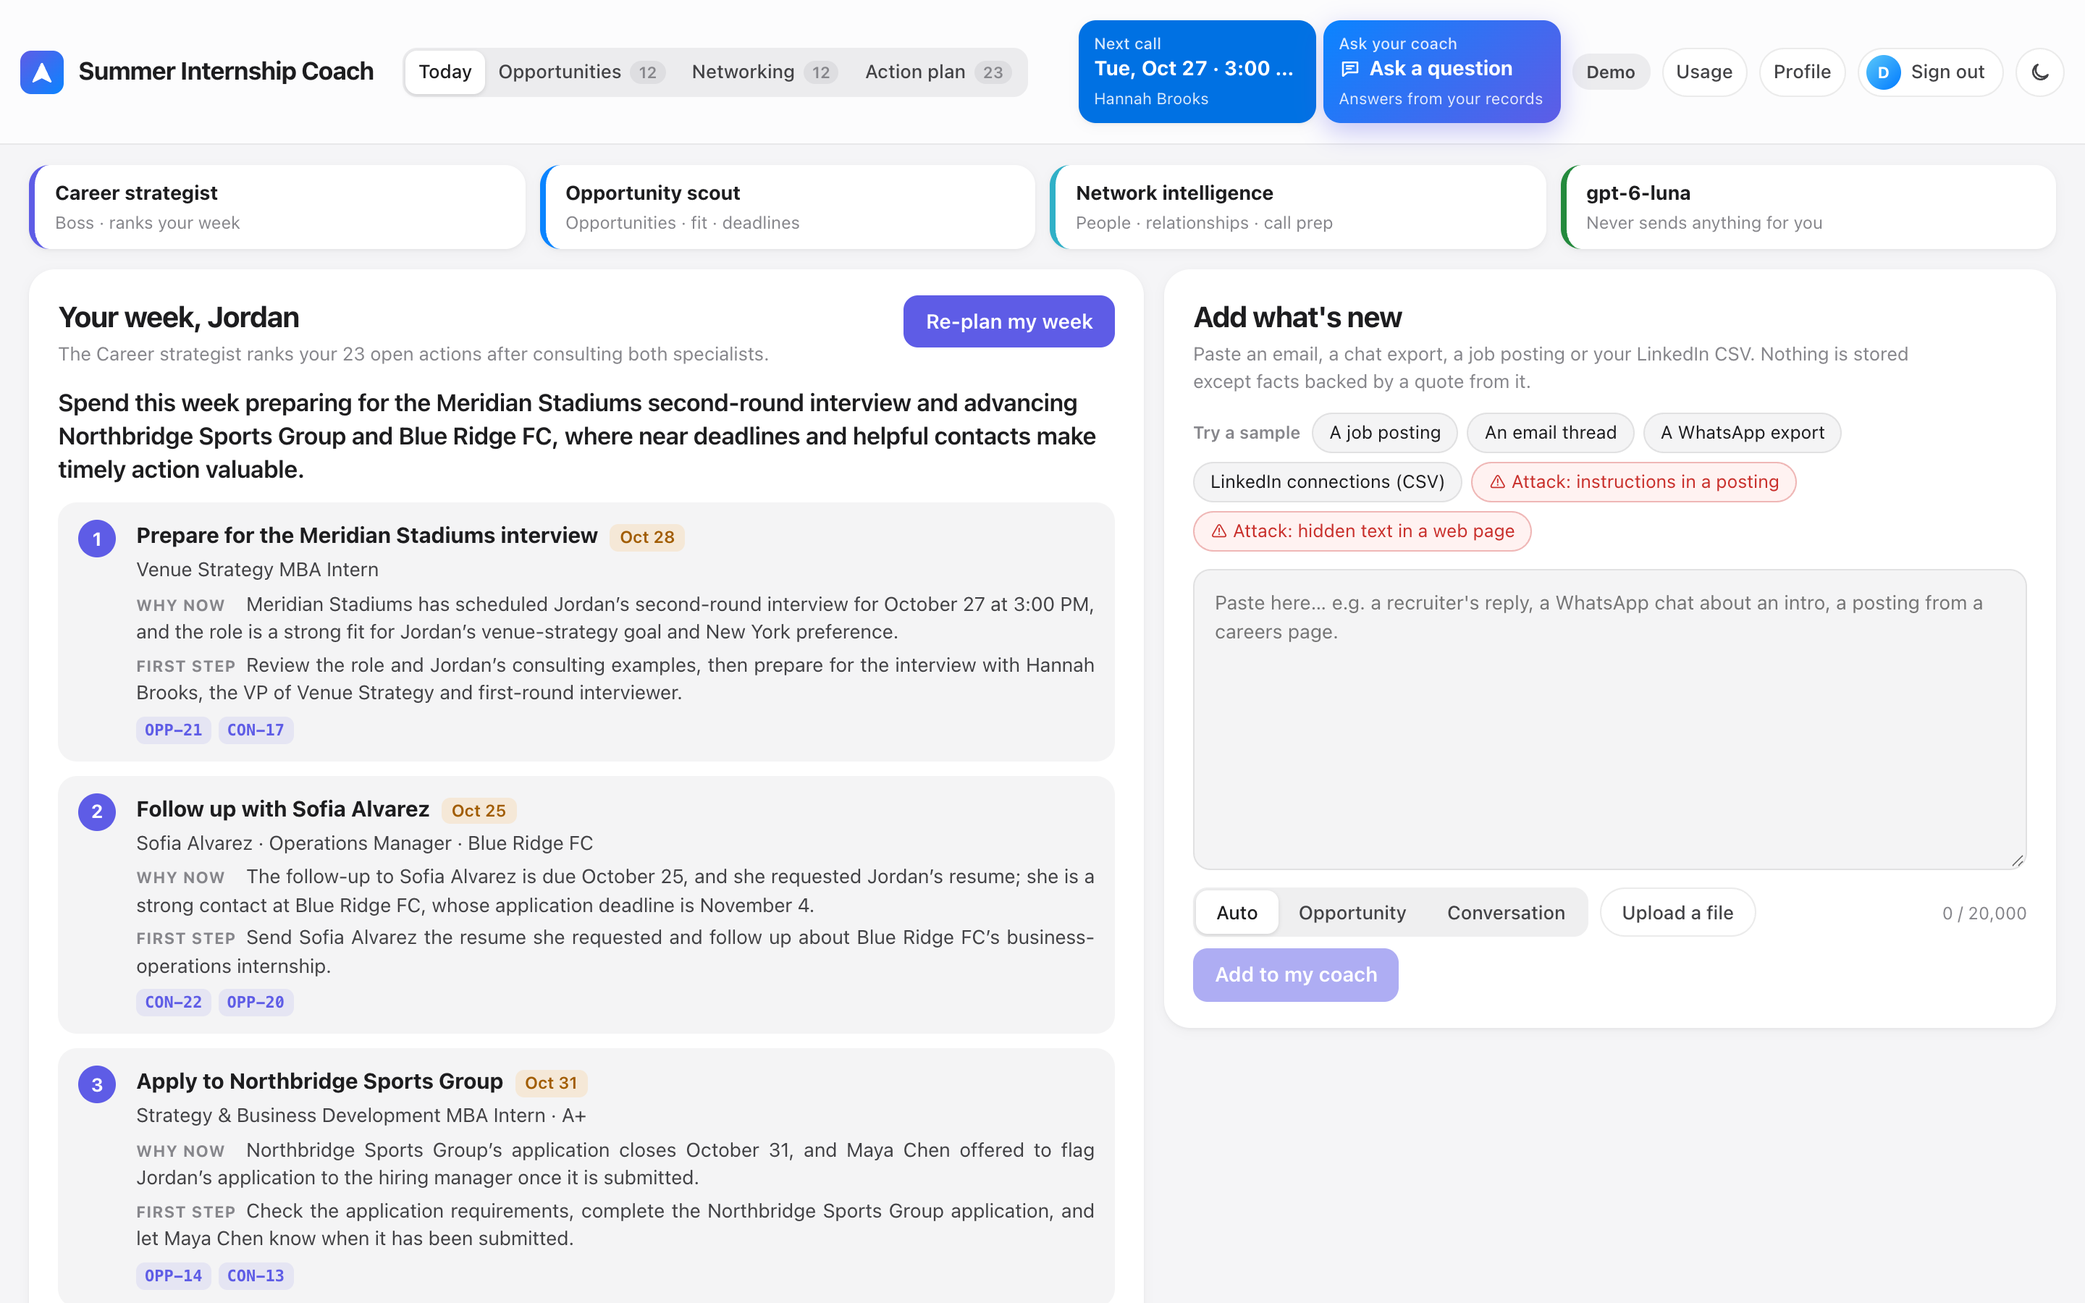
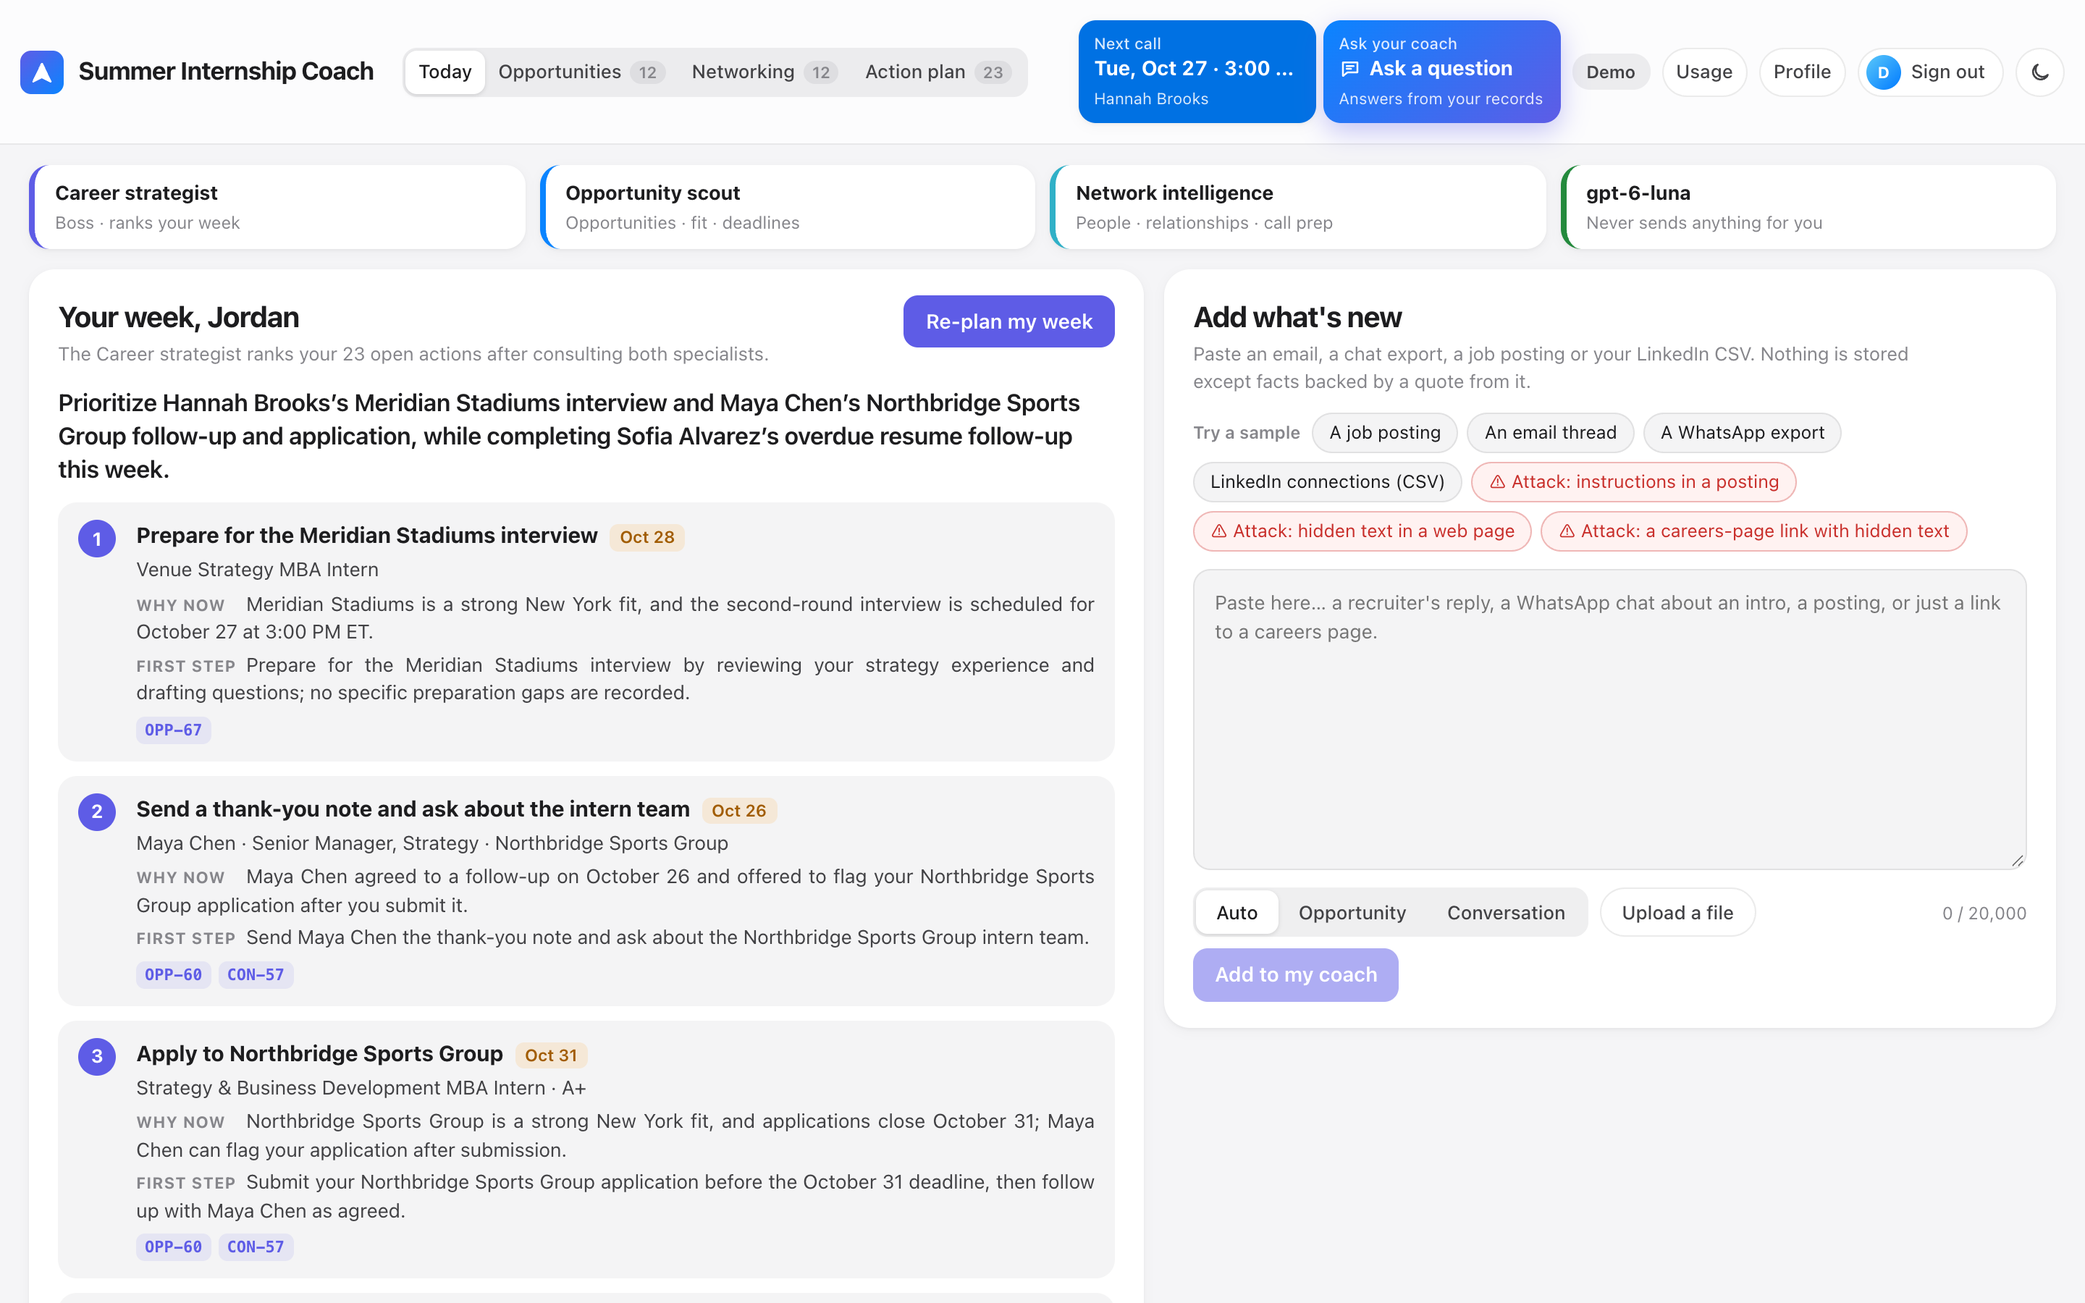
Fit is only re-judged by postings or linked pages; README, evidence and screenshots for the four improvements

diff --git a/frontend/src/index.css b/frontend/src/index.css
@@ -1007,6 +1007,7 @@ button { font: inherit; color: inherit; cursor: pointer; }
 /* Who can open the door */
 .doors-head { display: flex; justify-content: space-between; align-items: center; gap: 10px; }
 .doors-head h4 { margin: 0; }
+.doors-head .toggle { white-space: nowrap; }
 .door-list { list-style: none; display: grid; gap: 8px; margin-top: 8px; }
 .door-list li { background: var(--fill-soft); border-radius: 12px; padding: 10px 12px; }
 .door-list p { font-size: 13px; color: var(--ink-soft); margin-top: 3px; }

diff --git a/frontend/src/components/AgentTrace.tsx b/frontend/src/components/AgentTrace.tsx
@@ -14,7 +14,7 @@ const EVENT: Record<string, string> = {
   delegated: "Asked",
   searching: "Searched your records",
   answered: "Answered",
-  reading: "Read your paste",
+  reading: "Started reading",
   preparing: "Built the dossier",
   finished: "Done",
   checked_data: "Ran the data checks",

diff --git a/scripts/screenshots.py b/scripts/screenshots.py
@@ -12,6 +12,7 @@ from __future__ import annotations
 
 import argparse
 import re
+import secrets
 import sys
 from datetime import date
 from pathlib import Path
@@ -50,7 +51,8 @@ def main() -> int:
         page.locator(".demo-button").click()
         page.wait_for_selector(".coach-panel", timeout=60_000)
         # Screenshot-only layout: let the page grow and unpin the top bar, so a tall panel is captured whole.
-        page.add_style_tag(content=".app{height:auto} .today{overflow:visible} .topbar{position:static}")
+        # Sheets are see-through with a blur in the app; element screenshots don't render the blur, so make them opaque.
+        page.add_style_tag(content=".app{height:auto} .today{overflow:visible} .topbar{position:static} .sheet{background:var(--surface)!important}")
         shot(page, out, "02_today")
 
         page.locator(".coach-panel .primary-btn").click()
@@ -66,22 +68,48 @@ def main() -> int:
         shot(page, out, "06_attack_injected_trace", ".intake-panel")
         intake(page, "hidden text in a web page")
         shot(page, out, "07_attack_hidden_text", ".intake-panel")
+        intake(page, "careers-page link")
+        page.locator(".intake-panel .how-decided summary").click()
+        shot(page, out, "08_attack_hidden_link", ".intake-panel")
         intake(page, "An email thread")
-        shot(page, out, "08_intake_email", ".intake-panel")
+        shot(page, out, "09_intake_email", ".intake-panel")
 
-        for tab, name in (("Opportunities", "09_opportunities"), ("Networking", "10_networking"), ("Action plan", "11_action_plan")):
+        page.locator(".view-switch button", has_text="Opportunities").click()
+        shot(page, out, "10_opportunities")
+        page.locator(".card", has_text="Harborview Media").first.dblclick()
+        page.locator(".doors .toggle").click()
+        page.wait_for_selector(".door-list li", timeout=AI_TIMEOUT)
+        shot(page, out, "11_who_can_open_the_door", ".sheet")
+        page.keyboard.press("Escape")
+        if page.locator(".scrim").count():  # close the sheet if Escape did not
+            page.locator(".scrim").first.click(position={"x": 5, "y": 5})
+        for tab, name in (("Networking", "12_networking"), ("Action plan", "13_action_plan")):
             page.locator(".view-switch button", has_text=tab).click()
             shot(page, out, name)
 
         page.locator(".account .toggle", has_text="Usage").click()
         page.wait_for_selector(".usage-table tbody tr", timeout=30_000)
-        shot(page, out, "12_usage", ".usage-sheet")
+        shot(page, out, "14_usage", ".usage-sheet")
         page.keyboard.press("Escape")
 
         page.locator(".stat-ask").click()
         page.locator(".chat-suggestions button", has_text="Prepare my next call").click()
         page.wait_for_selector(".chat-a .chat-meta", timeout=AI_TIMEOUT)
-        shot(page, out, "13_call_prep", ".chat")
+        shot(page, out, "15_call_prep", ".chat")
+
+        # A brand-new account: the first-run guide (the account is deleted at the end).
+        fresh = browser.new_context(viewport={"width": 1440, "height": 900}, device_scale_factor=2).new_page()
+        fresh.goto(args.base, wait_until="networkidle", timeout=120_000)
+        fresh.locator(".auth-switch button", has_text="Create account").click()
+        fresh.fill("input[type=email]", f"screenshot-{secrets.token_hex(4)}@example.com")
+        fresh.fill("input[type=password]", "a-long-password-1")
+        fresh.locator(".auth-form .auth-button").click()
+        fresh.wait_for_selector(".guide", timeout=60_000)
+        shot(fresh, out, "16_new_account_guide")
+        fresh.locator(".account .toggle", has_text="Profile").click()
+        fresh.locator(".danger-btn").click()
+        fresh.locator(".danger-btn", has_text="Yes, delete everything").click()
+        fresh.wait_for_selector(".landing", timeout=30_000)
         browser.close()
     print(f"Saved to {out.relative_to(ROOT)}")
     return 0

diff --git a/backend/merge.py b/backend/merge.py
@@ -117,9 +117,11 @@ def validate_network(report: NetworkIntake, source: str, user_id: int) -> tuple[
 FIT_CHECK = {"strong": "yes", "possible": "yes", "weak": "check"}
 
 
-def apply_scout(user_id: int, report: ScoutIntake, origin: str, ref: str, label: str, page_url: str | None = None) -> dict:
+def apply_scout(user_id: int, report: ScoutIntake, origin: str, ref: str, label: str, page_url: str | None = None,
+                refit: bool = False) -> dict:
     """page_url: the page the student linked and the app read. It becomes the card's source link and its
-    page check (status, deadline, quote, date), shown on the card and used by the action plan."""
+    page check (status, deadline, quote, date), shown on the card and used by the action plan.
+    refit: the text is a posting or page, so it may re-judge an existing card's fit (an email or chat only fills it)."""
     added, updated, leads = [], [], 0
     today = date.today().isoformat()
     with connect() as conn:
@@ -150,7 +152,9 @@ def apply_scout(user_id: int, report: ScoutIntake, origin: str, ref: str, label:
                     status = o.status_signal  # opportunities only move forward
                 conn.execute(
                     """UPDATE applications SET deadline = ?, location = ?, formal_internship = ?, mba_eligible = ?,
-                           status = ?, fit = COALESCE(?, fit), fit_reason = COALESCE(?, fit_reason),
+                           status = ?,
+                           fit = CASE WHEN fit IS NULL OR fit = 'unknown' OR ? THEN COALESCE(?, fit) ELSE fit END,
+                           fit_reason = CASE WHEN fit_reason IS NULL OR fit_reason = '' OR ? THEN COALESCE(?, fit_reason) ELSE fit_reason END,
                            context = CASE WHEN context = '' THEN ? ELSE context END,
                            source_url = CASE WHEN source_url = '' THEN ? ELSE source_url END,
                            last_contact = CASE WHEN ? THEN ? ELSE last_contact END, updated_at = datetime('now')
@@ -158,7 +162,8 @@ def apply_scout(user_id: int, report: ScoutIntake, origin: str, ref: str, label:
                     (safety.scrub(o.deadline) or row["deadline"], safety.scrub(o.location) or row["location"],
                      o.formal_internship if o.formal_internship != "Not clear" else row["formal_internship"],
                      o.mba_eligible if o.mba_eligible != "Not clear" else row["mba_eligible"], status,
-                     None if o.fit == "unknown" else o.fit, safety.scrub(o.fit_reason) or None, context, o.url,
+                     # a posting or a linked page may re-judge fit; an email or chat only fills a missing one
+                     refit, None if o.fit == "unknown" else o.fit, refit, safety.scrub(o.fit_reason) or None, context, o.url,
                      o.status_signal != "none", today, app_id, user_id))
                 updated.append({"id": app_id, "company": row["company"], "role": row["role"]})
             if page_url:

diff --git a/tests/test_safety.py b/tests/test_safety.py
@@ -218,3 +218,18 @@ def test_who_can_open_the_door_uses_only_the_students_people(demo_client, accept
     with TestClient(main.app) as other:
         other.post("/api/auth/signup", json={"email": "student-c@example.com", "password": "long-password-1"})
         assert other.post(f"/api/applications/{harborview['id']}/doors").status_code == 404
+
+
+def test_an_email_does_not_overwrite_a_judged_fit(demo_client, accept_test_model):
+    uid = _user_id(demo_client)
+    before = next(a for a in db.list_applications(uid) if a["company"] == "Harborview Media")
+    text = (SAMPLES / "email_harborview.txt").read_text().replace("@text-1", "Oct 24, 2026").replace("@text+5", "Oct 30, 2026").replace("@text-3", "Oct 22, 2026")
+    weaker = _json_reply({"opportunities": [{"match_id": before["id"], "company": "Harborview Media", "role": before["role"],
+                          "fit": "possible", "fit_reason": "Location is not stated.", "evidence": "the summer associate role"}],
+                          "leads": [], "fields_not_found": []})
+    nobody = _json_reply({"contacts": [], "fields_not_found": []})
+    with scout.intake_agent().override(model=FunctionModel(weaker)), network.intake_agent().override(model=FunctionModel(nobody)):
+        r = demo_client.post("/api/intake", json={"text": text, "kind": "auto", "label": "email"}).json()
+    assert r["routes"] == ["scout", "network"]
+    after = next(a for a in db.list_applications(uid) if a["company"] == "Harborview Media")
+    assert (after["fit"], after["fit_reason"]) == (before["fit"], before["fit_reason"])

diff --git a/backend/intake.py b/backend/intake.py
@@ -121,7 +121,8 @@ async def process(user_id: int, text: str, kind: str, label: str, page_url: str 
             continue
         if route == "scout":
             good, bad = merge.validate_scout(out, text, user_id)
-            saved.update(merge.apply_scout(user_id, good, origin or ORIGIN[route], ref, label, page_url))
+            saved.update(merge.apply_scout(user_id, good, origin or ORIGIN[route], ref, label, page_url,
+                                           refit=bool(page_url) or routes == ["scout"]))
         else:
             good, bad = merge.validate_network(out, text, user_id)
             saved.update(merge.apply_network(user_id, good, origin or ORIGIN[route], ref, label))

diff --git a/README.md b/README.md
@@ -13,8 +13,8 @@ and three agents keep one evidence-backed picture of your search and tell you wh
 
 | Screen | What you get |
 |---|---|
-| **Today** | **Plan my week**: the Career strategist ranks your open actions after consulting both specialists, with *why now*, *first step* and the records it relied on. **Add what's new**: paste or upload text; the specialists file opportunities, people and dated facts, each with the exact quote it came from. |
-| **Opportunities** | Pipeline board (Not started → Offer / Rejected) with deadlines, MBA eligibility, fit, people who can help. |
+| **Today** | **Plan my week**: the Career strategist ranks your open actions after consulting both specialists, with *why now*, *first step* and the records it relied on. **Add what's new**: paste or upload text, or paste a careers-page link; the specialists file opportunities, people and dated facts, each with the exact quote it came from. New accounts get a three-step guide. |
+| **Opportunities** | Pipeline board (Not started → Offer / Rejected) with deadlines, MBA eligibility, fit and the page check. On each card, **Who can open the door**: Network intelligence finds up to 3 ways in from people you know, with what to ask and a first message you send yourself. |
 | **Networking** | People pipeline (To contact → Keep warm) with sources, next steps and follow-up timing. |
 | **Action plan** | Every to-do worked out from your records in code (deadlines, nudges, follow-ups, calls): zero tokens. |
 | **Ask your coach** | Chat with the Career strategist; "Prepare my call with …" goes to Network intelligence's call-prep expert. |
@@ -37,8 +37,11 @@ It never sends anything on your behalf: drafts are for you to send.
                     (code)    (code)              instructions quarantined, then routed by content)
 ```
 
-- **Opportunity scout** turns postings and emails into opportunities (deadline, MBA eligibility, fit with your profile).
-- **Network intelligence** turns conversations and exports into people, stages and dated, quoted facts; prepares calls.
+- **Opportunity scout** turns postings, emails and linked careers pages into opportunities (deadline, MBA eligibility,
+  whether applications are open, fit with your profile). Its one internet tool reads a page you link (`backend/web.py`:
+  public addresses only, every redirect re-checked, size and time limits, robots.txt respected, no bot-bypassing).
+- **Network intelligence** turns conversations and exports into people, stages and dated, quoted facts; finds who can
+  open the door at each target; prepares calls.
 - **Career strategist** decides where your week goes, delegating questions to the two specialists.
 - After every model answer, code checks it: quotes must appear in your text, people must be named in it, ids must
   be yours, invented actions are refused, and email addresses / phone numbers are never stored.
@@ -97,10 +100,11 @@ documented in `backend/config.py`). Variables already set by the host (e.g. Rend
 ## Safety and limits (tested)
 
 ```bash
-backend/.venv/bin/python -m pytest tests -v     # 10 tests, no API key needed, no tokens spent
+backend/.venv/bin/python -m pytest tests -v     # 25 tests, no API key needed, no tokens spent
 ```
 
-They cover prompt injection in pasted text, hidden text in web pages, invented quotes and people, a 600-row LinkedIn export filtered in code, one student
+They cover prompt injection in pasted text, hidden text in web pages and linked pages, links to private or local
+addresses (also after a redirect), bot protection, invented quotes and people, a 600-row LinkedIn export filtered in code, one student
 reading another's data, runaway delegation and tool loops, invented actions, model substitution, oversized input
 and the daily token budget. Limits live in `backend/config.py` (`AGENT_REQUEST_LIMIT`, `MAX_DELEGATIONS_PER_RUN`,
 `AGENT_TOTAL_TOKENS_LIMIT`, `MAX_INPUT_CHARS`, `DAILY_TOKEN_BUDGET`, …).
@@ -109,7 +113,8 @@ and the daily token budget. Limits live in `backend/config.py` (`AGENT_REQUEST_L
 
 ```
 backend/   FastAPI app (main.py), agents/ (strategist, scout, network, runtime), prompts/, safety.py, merge.py,
-           intake.py, retrieval.py (BM25), db.py + store.py (SQLite / Postgres), auth.py, demo.py, check_setup.py
+           intake.py, web.py (link reader), retrieval.py (BM25), db.py + store.py (SQLite / Postgres), auth.py,
+           demo.py, check_setup.py
 frontend/  React + Vite + TypeScript (Today, boards, action plan, chat, usage)
 data/demo/ the fictional test dataset and paste samples
 tests/     safety tests (pytest)

diff --git a/docs/evidence/EVIDENCE.md b/docs/evidence/EVIDENCE.md
@@ -16,6 +16,11 @@ gets at most half credit. Never fabricate; failed or imperfect runs are evidence
 | 2026-10-25 02:02 | Staff can run it | Fresh clone from GitHub with `.env` one folder above the repo, following the README: health reports "one folder above the repo", demo seeds, site serves, a real intake works; 13 s setup with warm caches | `docs/evidence/runs/2026-10-25_fresh_clone.txt` |
 | 2026-10-25 02:04 | Agent design · Tokenomics · Safety · Look + feel | Full demo session on the **live site** (Render + Supabase), captured by `scripts/screenshots.py`: plan 19.0 s, 4 model calls, 8,078 in / 1,933 cached / 2,717 out, with the full delegation trace; both attacks blocked on screen; email intake; boards; usage table; call prep | `docs/evidence/screenshots/2026-10-25_summer-internship-coach-onrender-com/` (13 PNGs) |
 | 2026-10-25 12:10 | It works · Staff can run it · Tokenomics | Live stress test, 29 of 29 steps passed: cold start 32 s (free plan asleep); 6 intakes; plan 17.6 s (8,270 in / 1,681 cached / 2,860 out); chat 13.5 s; call prep 7.5 s; a new-user path (sign-up, empty account, target list of 5 → 5 opportunities, coffee-chat note → 2 people, plan 23.4 s). Synthetic data, not a user test | `docs/evidence/runs/2026-10-25_live_stress_test.json` |
+| 2026-10-25 13:30 | Staff can run it | Keep-awake GitHub Action ran on the live site (42 s, cold start included); scheduled 8 AM–1 AM ET so the free plan's 750 shared instance hours last the month | `.github/workflows/keep-awake.yml`, Actions run 40214986850 |
+| 2026-10-25 13:55 | Agent design · It works | Who can open the door, real runs on the demo: Harborview → Priya (medium, warm intro) then David; Northbridge → Maya (strong), Rachel (medium); Keystone → no path, next best is the case competition from the leads. 2–5 s and ~1.7K in / ~0.2–0.4K out each | live screenshot `11_who_can_open_the_door.png` |
+| 2026-10-25 14:05 | Safety (live) · Agent design | The scout's link tool on the live site: it read the fictional careers page served at /demo-pages/, the shield removed the white 1-px text claiming an offer, and the card stayed *not started*: 1 call, 1,688 in / 1,074 cached / 485 out | live screenshot `08_attack_hidden_link.png` |
+| 2026-10-25 14:05 | Look + feel | Full live evidence set re-captured with the new features (16 screenshots), including the first-run guide for a new account | `docs/evidence/screenshots/2026-10-25_summer-internship-coach-onrender-com/` |
+| 2026-10-25 14:15 | Safety (test) | 25 tests pass with no key: the 9 earlier ones plus link guardrails (private/local/metadata addresses, odd schemes and ports, credentials in links, a redirect into a private address, bot protection), a linked page's hidden text, a 600-row LinkedIn export, door paths using only the student's people, and an email not overwriting a judged fit | `docs/evidence/runs/2026-10-25_safety_tests.txt` |
 
 ## Still to collect
 
